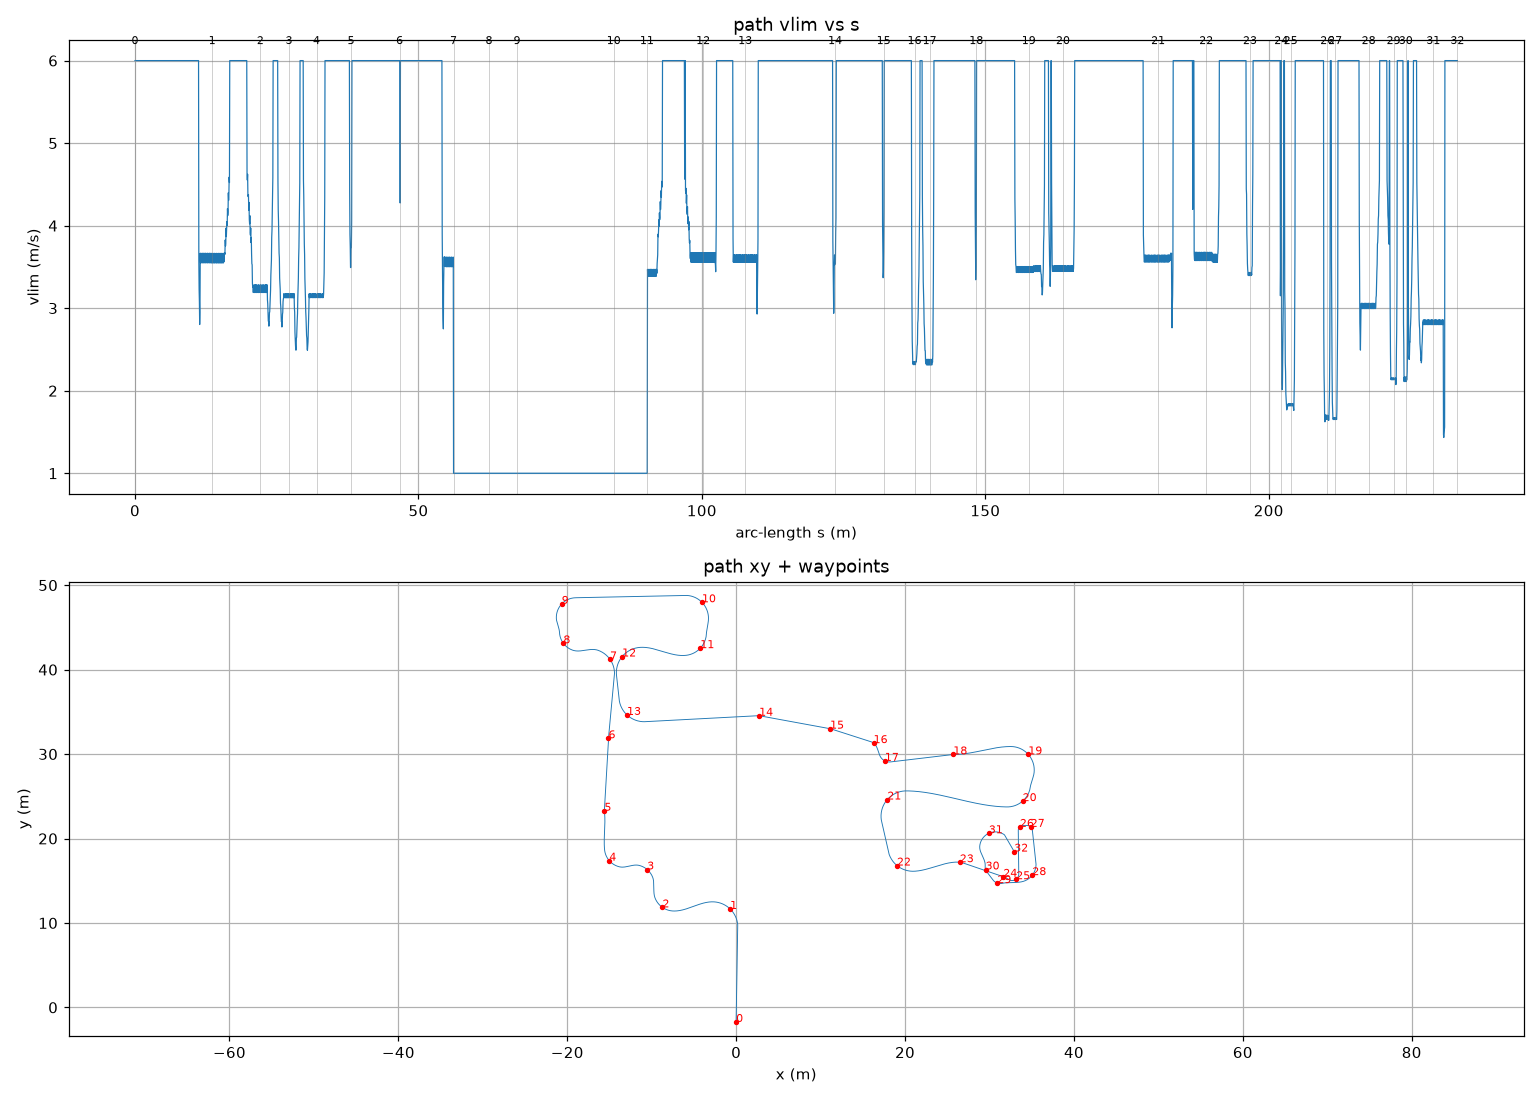
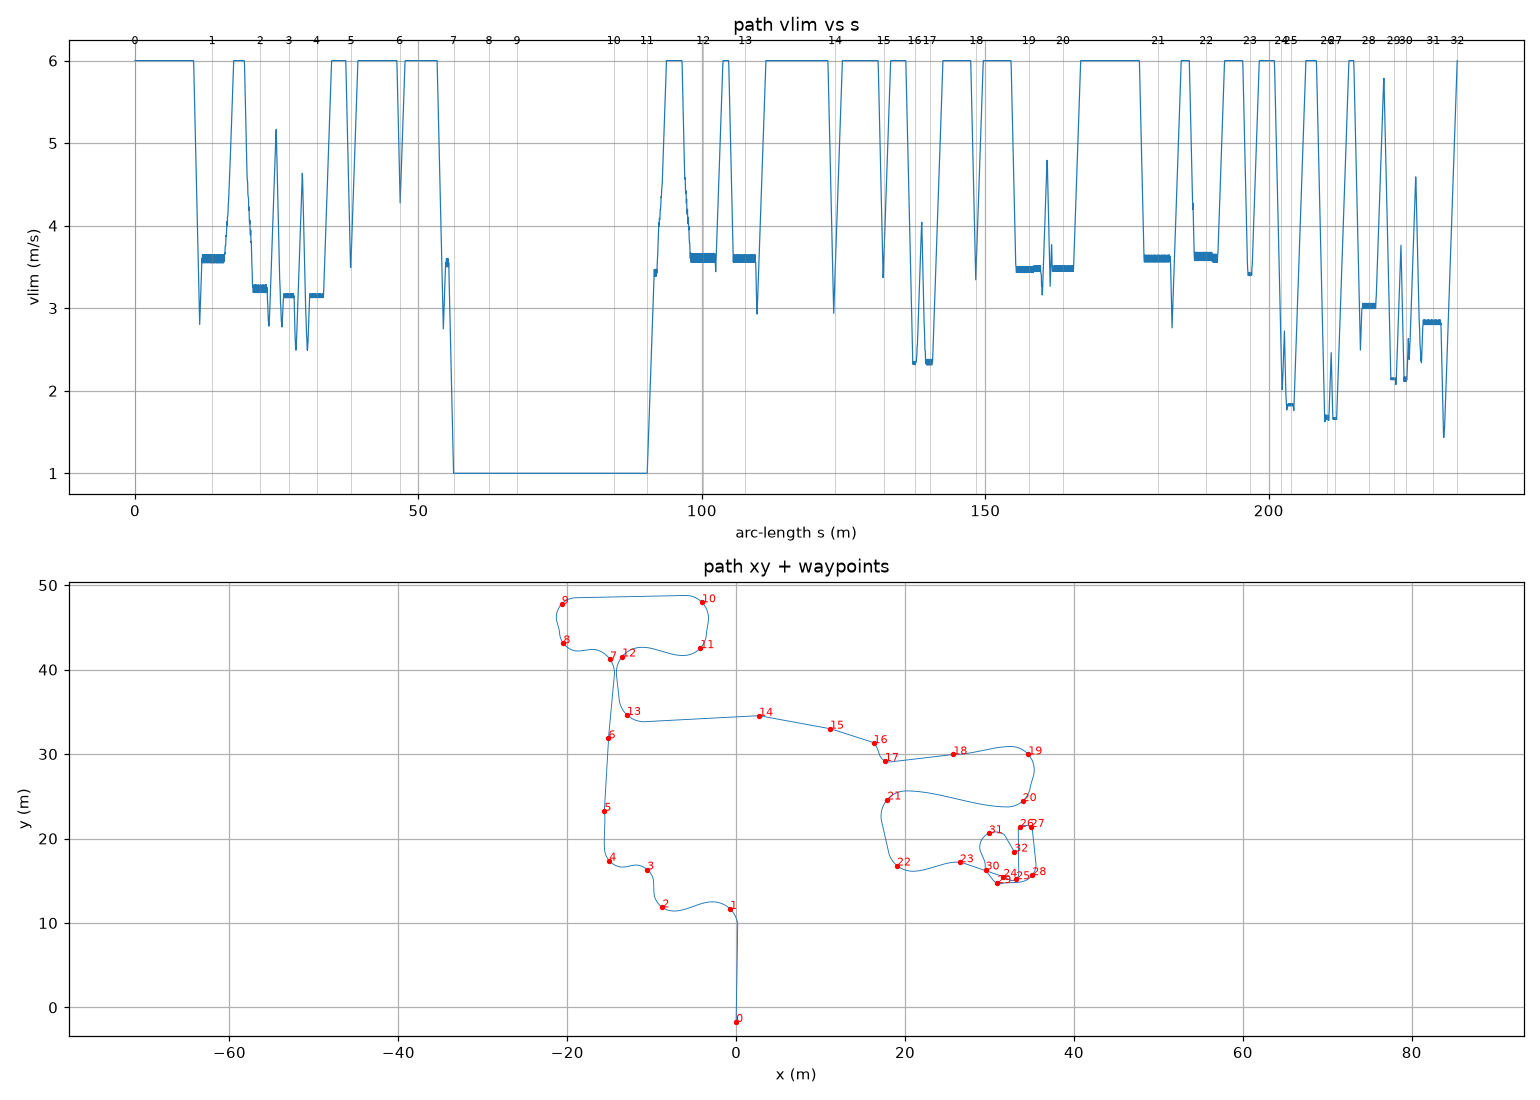
feat(pathplan): vlim速度剖面平滑(空间加速度/减速度限制, 默认加速2m/s每m=1m/s每0.5m)

diff --git a/src/S10_sdk_deploy/s10_mpc/auto_nav.py b/src/S10_sdk_deploy/s10_mpc/auto_nav.py
@@ -505,6 +505,28 @@ class AutoNavFollower:
                         self.path_vlim[_k0:_k1 + 1] = np.minimum(
                             self.path_vlim[_k0:_k1 + 1], _sv)
 
+        # USER-DIRECTED 2026-08-16: smooth the speed profile in SPACE so it ramps
+        # gradually and never jumps straight to max_speed.
+        #   S10_VLIM_ACC_UP = max speed INCREASE per metre (default 2.0 = 1 m/s per 0.5m)
+        #   S10_VLIM_ACC_DN = max speed DECREASE per metre (default 3.0, allows braking)
+        # Forward pass limits acceleration; backward pass limits deceleration so the
+        # robot slows down BEFORE a slow zone instead of at its boundary.
+        _acc_up = float(os.environ.get("S10_VLIM_ACC_UP", "2.0"))
+        _acc_dn = float(os.environ.get("S10_VLIM_ACC_DN", "3.0"))
+        _nv = len(self.path_vlim)
+        for _k in range(1, _nv):
+            _ds = float(self.path_cum[_k] - self.path_cum[_k - 1])
+            if _ds > 1e-6:
+                _cap = self.path_vlim[_k - 1] + _acc_up * _ds
+                if self.path_vlim[_k] > _cap:
+                    self.path_vlim[_k] = _cap
+        for _k in range(_nv - 2, -1, -1):
+            _ds = float(self.path_cum[_k + 1] - self.path_cum[_k])
+            if _ds > 1e-6:
+                _cap = self.path_vlim[_k + 1] + _acc_dn * _ds
+                if self.path_vlim[_k] > _cap:
+                    self.path_vlim[_k] = _cap
+
     def compute_cmd(self, robot_xy, yaw, next_idx, robot_z=None, yaw_rate=0.0):
         """返回 (vx, vyaw)。robot_xy: (2,) 全局位置；next_idx: 下一个未到达航点。"""
         if next_idx >= len(self.wp):

diff --git a/doc/pathplan_result_20260816.md b/doc/pathplan_result_20260816.md
@@ -15,8 +15,8 @@
 | 2 | -8.73 | 11.84 | 0.47 | 22.12 | 8.02 | 2.42 | 3.28 |
 | 3 | -10.54 | 16.33 | 0.47 | 27.17 | 4.84 | 2.30 | 3.18 |
 | 4 | -15.02 | 17.37 | 0.47 | 32.02 | 4.60 | 2.30 | 3.16 |
-| 5 | -15.60 | 23.28 | 0.47 | 38.12 | 5.94 | 2.97 | 3.75 |
-| 6 | -15.12 | 31.86 | 0.60 | 46.68 | 8.59 | 3.00 | 6.00 |
+| 5 | -15.60 | 23.28 | 0.47 | 38.12 | 5.94 | 2.97 | 3.59 |
+| 6 | -15.12 | 31.86 | 0.60 | 46.68 | 8.59 | 3.00 | 4.58 |
 | 7 | -14.93 | 41.20 | 1.17 | 56.20 | 9.35 | 2.92 | 1.00 |
 | 8 | -20.46 | 43.11 | 1.17 | 62.45 | 5.85 | 2.34 | 1.00 |
 | 9 | -20.66 | 47.78 | 1.17 | 67.40 | 4.68 | 2.34 | 1.00 |
@@ -24,17 +24,17 @@
 | 11 | -4.25 | 42.54 | 1.17 | 90.31 | 5.43 | 2.72 | 1.00 |
 | 12 | -13.50 | 41.55 | 1.17 | 100.23 | 9.31 | 3.00 | 3.56 |
 | 13 | -12.92 | 34.63 | 0.47 | 107.65 | 6.95 | 3.00 | 3.56 |
-| 14 | 2.72 | 34.53 | 0.47 | 123.51 | 15.65 | 3.00 | 3.64 |
-| 15 | 11.12 | 33.01 | 0.10 | 132.07 | 8.54 | 2.72 | 3.69 |
+| 14 | 2.72 | 34.53 | 0.47 | 123.51 | 15.65 | 3.00 | 3.44 |
+| 15 | 11.12 | 33.01 | 0.10 | 132.07 | 8.54 | 2.72 | 3.54 |
 | 16 | 16.27 | 31.29 | 0.47 | 137.52 | 5.43 | 1.24 | 2.35 |
 | 17 | 17.61 | 29.19 | 0.47 | 140.18 | 2.49 | 1.24 | 2.31 |
-| 18 | 25.72 | 29.95 | 2.20 | 148.41 | 8.14 | 3.00 | 3.96 |
+| 18 | 25.72 | 29.95 | 2.20 | 148.41 | 8.14 | 3.00 | 3.54 |
 | 19 | 34.60 | 29.95 | 2.36 | 157.67 | 8.88 | 2.78 | 3.50 |
 | 20 | 33.92 | 24.43 | 2.36 | 163.70 | 5.57 | 2.78 | 3.45 |
 | 21 | 17.89 | 24.61 | 0.47 | 180.49 | 16.03 | 3.00 | 3.64 |
 | 22 | 19.04 | 16.80 | 0.47 | 188.97 | 7.90 | 3.00 | 3.58 |
 | 23 | 26.48 | 17.18 | 1.67 | 196.69 | 7.45 | 2.72 | 3.43 |
-| 24 | 31.64 | 15.46 | 1.67 | 202.21 | 5.43 | 0.78 | 6.00 |
+| 24 | 31.64 | 15.46 | 1.67 | 202.21 | 5.43 | 0.78 | 2.40 |
 | 25 | 33.16 | 15.18 | 1.67 | 203.87 | 1.56 | 0.78 | 1.82 |
 | 26 | 33.60 | 21.38 | 2.70 | 210.32 | 6.21 | 0.64 | 1.65 |
 | 27 | 34.88 | 21.38 | 2.70 | 211.72 | 1.28 | 0.64 | 1.65 |
@@ -49,7 +49,7 @@
 | ? | ???? | vlim min | vlim max | ??max |
 |---|---|---|---|---|
 | wp4->5 | 32.0-38.1 | 3.13 | 6.00 | 0.439 |
-| wp5->6 | 38.1-46.7 | 3.73 | 6.00 | 0.308 |
+| wp5->6 | 38.1-46.7 | 3.59 | 6.00 | 0.308 |
 | wp6->7 | 46.7-56.2 | 1.00 | 6.00 | 0.569 |
 | wp7->8 | 56.2-62.4 | 1.00 | 1.00 | 0.617 |
 | wp8->9 | 62.4-67.4 | 1.00 | 1.00 | 0.537 |
